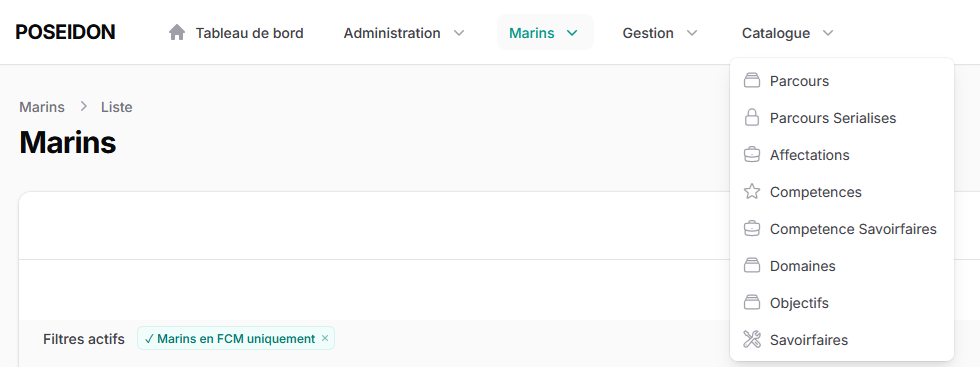
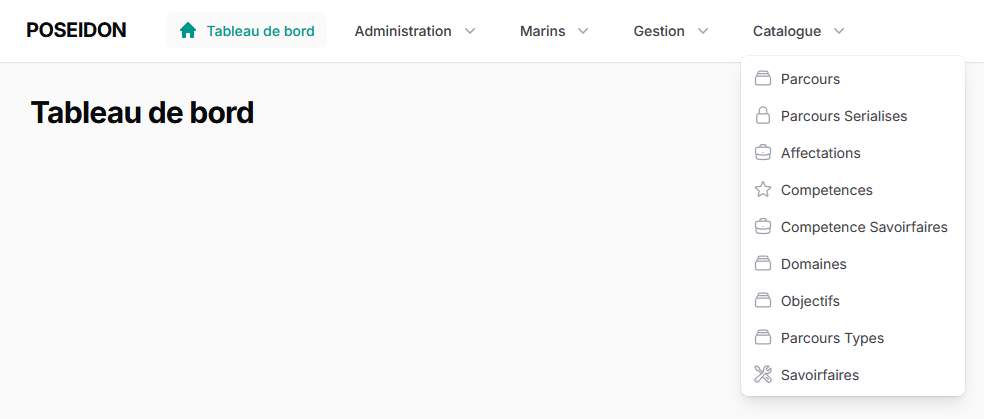
Documentation générale du module Fcm Central

diff --git a/resources/docs/generalites.md b/resources/docs/generalites.md
@@ -2,6 +2,8 @@
 
 Le module Fcm Central est un module métier de l'écosystème [POSEIDON](../../index.md). Il présente donc la plupart de ses fonctionnalités sous la forme de pages Web auxquelles l'utilisateur se connecte en utilisant son navigateur Web.
 
+Comme son nom l'indique, le module FCM Central est destiné à outiller les processus définis dans la [Formation Continue Modulaire](https://portail-ct-mvl.intradef.gouv.fr/sites/FPS_Brest/FCM/Documents%20partages/DOCUMENTATION%20G%C3%89N%C3%89RALE/TEXTES/20230721_NP_DPMM_FORM_17638_Relative-mise-en-oeuvre-formation-continue-modulaire.pdf)
+
 Le module FCM Central permet aux utilisateurs :
 
 - de décrire les Parcours Professionnels en Alternance (PPA) de la Formation Continue Modularisée (FCM)
@@ -20,14 +22,287 @@ Pour rappel, voici un schéma illustrant comment sont construits les PPA:
 
 ``` mermaid
 graph TD
-  A[Parcours] --> B{Affectation 1};
-  A[Parcours] --> C{Affectation 2};
-  B --> D{Compétence 1};
-  B --> E{Compétence 2};
-  C --> F{Compétence 3};
-  C --> G{Compétence 4};
-  D --> H{Savoir-faire 1};
-  H --> I{Objectif 1};
-  H --> J{Objectif 2};
-  D --> K{Savoir-faire 2};
+  A[Parcours] --> B[Affectation 1];
+  A[Parcours] --> C@{ shape: procs, label: "Affectation ..."};
+  B --> D[Compétence 1];
+  B --> E@{ shape: procs, label: "Compétence ..."};
+  C --> F[Compétence 3];
+  C --> G[Compétence 4];
+  D --> H[Savoir-faire 1];
+  H --> I[Objectif 1];
+  H --> J[Objectif 2];
+  H --> L@{ shape: procs, label: "Objectif ..."};
+  D --> K@{ shape: procs, label: "Savoir-faire ..."};
+  
 ```
+
+Les savoir-faire peuvent être de 3 types différents:
+
+- des objectifs acquis par compagnonage
+- des stages
+- des modules d'enseignement à distance
+
+Les objectifs sont les composants élémentaires du PPA.
+
+## Création d'un nouveau Parcours
+
+Pour créer un nouveau parcours, l'utilisateur doit accomplir les tâches suivantes:
+
+### Créer un nouveau type de parcours si nécessaire
+
+Le module FCM Central permet de définir des "Types de parcours", comme par exemple DEASM, ou ELECT. Ensuite, chaque parcours doit être associé avec un de ces types.
+Cette implémentation permet, si on le souhaite, d'avoir plusieurs parcours d'un même type, par exemples plusieurs parcours de type DEASM.
+
+Si le nouveau parcours ne correspond pas à un type de parcours existant déjà, créer le nouveau type de parcours:
+
+!!! note
+
+    L'accès aux pages listant les types de parcours et à la page de création d'un nouveau type de parcours n'est possible que pour les utilisateurs "Super-Administrateur" (voir la documentation de Skeletor relative aux [Comptes utilisateurs](../../Skeletor/administration/#comptes-utilisateur)). Si cette fonctionnalité (la possibilité d'avoir plusieurs parcours d'un même type) est confirmée, des permissions pouvant être attribuées aux utilisateurs seront définies pour régler les accès à ces pages.
+    Si vous n'êtes pas "Super-Administrateur", vous ne verrez pas les menus et les pages indiquées ci-dessous.
+
+Pour cela, depuis le menu Catalogue, utiliser le lien vers "Parcours Types".
+
+![Menu Catalogue](img/generalites/menu_description_parcours.png)
+
+![Liste des types de parcours](img/generalites/Liste%20parcours%20types.png)
+Cliquer ensuite sur le bouton"Créer".
+
+Et renseigner le formulaire permettant de définir le nouveau type de parcours:
+![Formulaire de creation type parcours](img/generalites/creation_type_parcours.png)
+
+### Créer le nouveau parcours
+
+Une fois le type de parcours créé (ou si le nouveau parcours est d'un type existant déjà), il est possible de créer le nouveau parcours en utilisant le lien "Parcour" du menu "Catalogue":
+
+![Menu Catalogue](img/generalites/menu_description_parcours.png)
+
+!!! note
+
+    L'accès la la liste des parcours nécessite la permision fcmcentral::parcours.index. Si vous n'avez pas cette permission, le lien "Parcours" n'apparaitra pas dans le menu Catalogue.
+    D'ailleurs, si vous n'avez accès à aucune des pages listées dans le menu Catalogue, ce dernier ne s'affichera même pas.
+
+Ce lien amène à la liste des parcours déjà définis:
+
+![Liste des parcours](img/generalites/liste_des_parcours.png)
+
+Cliquer ensuite sur le bouton "Créer" pour commencer la création du nouveau parcours:
+
+!!! note
+
+    L'accès à la fonctionnalité de création d'un parcours nécessite la permission fcmcentral::parcours.store
+
+Renseigner le formulaire relatif au parcours:
+
+![creation_parcours_1](img/generalites/creation_nouveau_parcours_1.png)
+
+Cliquer sur "Suivant" et renseigner les informations relatives aux affectations pour lesquelles il faudra ensuite définir les compétences, savoir-faire et objectifs:
+
+![creation_parcours_2](img/generalites/creation_nouveau_parcours_2.png)
+
+!!! note
+
+    A cette étape, vous pouvez définir autant d'affectations que vous le souhaitez. Pour chaque affectation, vous pourrez ensuite définir des compétences à aquérir, des savoir-faire et des objectifs.
+
+Une fois ces 2 étapes terminées (et après avoir cliqué sur "Créer"), le nouveau parcours existe dans la base de données. 
+
+### Renseigner le contenu du nouveau parcours
+
+Pour renseigner le contenu de ce parcours, naviguer à nouveau jusqu'à la liste des parcours depuis le menu Catalogue, et cliquer sur la ligne du nouveau parcours. Cela donne accès à la page d'édition du parcours.
+
+!!! note
+
+    Pour pouvoir éditer le contenu d'un parcours, l'utilisateur doit avoir la permission fcmcentral::parcours.update
+
+
+![edition_parcours](img/generalites/edition_parcours.png)
+
+Depuis cette page, les onglets de la partie inférieure de la page permettent de définir:
+
+- les affectations (pour corriger ce qui a été déclaré dans l'étape précédente si nécessaire)
+- les compétences (en les associant avec l'affectation au cours de laquelle le PPA prévoit qu'elles soient acquises)
+- les savoir-faire et leurs objectifs associés
+
+!!! note
+
+    Les onglets de la partie inférieures ne s'affichent que si l'utilisateur dispose des permissions suivantes:
+
+    - fcmcentral::affectation.index: permet d'afficher l'onglet Affectations, d'attacher et de détacher des affectations du parcours en cours d'édition.
+    - fcmcentral::affectation.store: permet à l'utilisateur de créér une nouvelle affectation (et comme il doit déjà avoir la permission ci-dessus, il peut l'associer au parcours en cours d'édition)
+    - fcmcentral::competences.index: permet d'afficher l'onglet Compétences, d'attacher et de détacher les compétences existant déjà, et de créer de nouvelles compétences à associer au parcours en cours d'édition.
+    - fcmcentral::competenceSavoirfaire.index: permet d'afficher l'onglet "Savoir-faire et objectifs", de modifier les données des savoir-faire et de leurs objectifs, y compris de créér de nouveaux objectifs ou d'en supprimer au sein de chaque savoir-faire.
+    - fcmcentral::competenceSavoirfaire.store: permet de créer un nouveau Savoir-faire et de le rattacher à une compétence. L'onglet n'étant visible que si l'utilisateur dispose déjà de la permission ci-dessus, il peut ensuite ajuster le contenu de ce nouveau savoir-faire à sa guise.
+    
+Pour ce qui concerne les compétences, les savoir-faire et les objectifs, l'application propose à l'utilisateur:
+
+- soit de reprendre un élément déjà défini dans l'application (par exemple si certaines compétences sont communes à 2 parcours distincts)
+- soit de définir de nouveaux éléments
+
+### Vérifier la définition du nouveau parcours depuis la vue détaillée
+
+Depuis la liste des parcours ou depuis la page d'édition du parcours, il est possible d'atteindre la vue détaillée de celui-ci, qui permet d'afficher sur une seule page toute la définition d'un parcours donné.
+
+![Parcours détaillé](img/generalites/parcours_detaillé.png)
+
+Les différents composants du parcours peuvent être développés grâce aux croix rouges situées à gauche.
+
+### Figer une version d'un parcours
+
+Dans le module de FCM Central, il y a une séparation stricte entre les outils permettant de décrire les parcours (objet des paragraphes précédents), et les outils permettant d'attribuer un parcours à un marin, puis de suivre sa progression.
+
+En particulier, pour qu'une version du parcours entre effectivement en service, il faut en figer une version.
+
+De la même façon que pour la vue détaillée, il est possible de figer la définition du parcours depuis la liste des parcours, ou depuis la page d'édition du parcours concerné.
+
+!!! note
+
+    L'utilisateur doit avoir la permission fcmcentral::parcours.figer pour pouvoir figer une nouvelle version d'un parcours
+
+Après avoir cliqué sur le bouton "Figer", une boite de dialogue apparait pour que l'utilisateur puisse confirmer la date à partir de laquelle la nouvelle version entre en vigueur. Par défaut, cette date est fixée au lendemain.
+
+![Modal figement](img/generalites/modal_figer_parcours.png)
+
+!!! note
+
+    Dans l'écosystème général de POSEIDON, les unités disposeront de leur propre serveur POSEIDON, sur lequel sera déployé le module de suivi de la FCM. Ces modules devront disposer des définitions des différents parcours à jour. Par conséquent, la date d'entrée en vigueur des parcours figés ne peut pas être fixée rétroactivement dans le passé. Il est possible que la première date possible d'entrée en vigueur soit ultérieusement forcée quelques jours dans le futur (et pas dès le lendemain), afin de garantir que tous les serveurs POSEIDON aient eu le temps d'obtenir les dernières définitions avant l'entrée en vigueur de ces dernières.
+
+## Gérer un marin dans le parcours de FCM
+
+Afin de pouvoir suivre l'évolution d'un marin dans son cycle de FCM, il faut renseigner les informations relatives au parcours attribué à ce marin.
+
+### Déclarer la cohorte BAT
+
+La page de gestion des cohortes est accessible depuis le menu "Gestion".
+
+!!! note
+
+    Pour avoir accès à la page de gestion des cohortes en consultation, l'utilisateur doit avoir la permission fcmcentrall::cohorte.index
+
+![Liste des cohortes BAT](img/generalites/liste_cohortes.png)
+
+La page présente la liste des cohortes renseignées dans le module, et le nombre de marins associés à cette cohorte.
+
+Le bouton "Créer" situé en haut à droite permet de déclarer une nouvelle cohorte.
+
+!!! note
+
+    La fonctionnalité de création d'une cohorte (et donc la visibilité du bouton associé) n'est accessible que si l'utilisateur a la permission fcmcentral::cohorte.store
+
+![Page de creation cohorte](img/generalites/creation_cohorte.png)
+
+### Gérer les marins en FCM
+
+Le module FCM Central expose la page de gestion des marins depuis laquelle les utilisateurs peuvent accéder aux principales fonctionnalités du suivi quotidien des marins en FCM.
+
+![Liste des marins](img/generalites/liste_des_marins.png)
+
+!!! note 
+
+    L'utilisateur doit avoir la permission fcmcentral::marins.index pour pouvoir accéder à cette page. La liste des marins à laquelle il a accès dépend des règles de filtrage appliquées par le module RH. Se reporter à la documentation de ce module pour plus de détail.
+
+    Les différentes fonctionnalités accessibles pour chaque marin dépendent de la situation de ce marin au regard de la FCM et des permissions accordées à l'utilisateur.
+
+#### Placer le marin en FCM
+
+Lorsque l'utilisateur accède à la page de gestion des marins, il peut indiquer au module FCM Central qu'un des marins disponibles dans la liste est dans le parcours de FCM.
+
+Pour cela, il peut tout d'abord désactiver le filtre par défaut qui n'affiche que les marins déjà inscrits dans le parcours de FCM (en cliquant sur la croix dans la ligne des filtres actifs, pour le filtre "Marins en FCM uniquement", soit en cliquant sur le bouton des filtres (entonnoir à droite), et en désactivant le même filtre)
+
+Une fois les marins affichés, l'utilisateur peut utiliser la barre de recherche située à droite pour rechercher le marin dont il souhaite s'occuper, si la liste est longue.
+
+Il peut ensuite cliquer sur la croix rouge située dans la colonne FCM.
+
+La boite de dialogue suivante apparaitra alors:
+
+![modal suivre en FCM](img/generalites/modal_suivre_en_FCM.png)
+
+!!! note
+
+    Dans cette boite de dialogue, les différents champs ne s'affiche que si l'utilisateur dispose des permissions correspondantes:
+
+    - Choisir la cohorte: fcmcentral::attribuer.cohorte
+    - Choisir le mentor: fcmcentral::attribuer.mentor
+    - Choisir le parcours: fcmcentral::attribuer.parcours
+
+    Si l'utilisateur n'a aucune de ces permissions, la boite de dialogue ne s'ouvre pas.
+
+!!! note
+
+    Dans cette boite de dialogue, ne s'affichent que les parcours qui disposent d'une version figée. Voir le chapitre "Figer une version d'un parcours" ci-dessus.
+
+#### Période de sédimentation - Définition des jalons de FCM
+
+Par défaut, lorsque le marin est placé en FCM, il est d'abord réputé entrer en période de sédimentation. Dans la page de gestion des marins, la mention "SED" apparait dans la colonne Jalon.
+
+Avant de pouvoir saisir des données de progression dans son livret de FCM, il faut indiquer au logiciel que la période de sédimentation est terminée.
+
+Pour cela, cliquer sur la mention "SED". La boite de dialogue de définition des jalons de FCM apparait:
+
+![Modal jalons de FCM](img/generalites/modal_jalons_fcm.png)
+
+Cette boite de dialogue permet notamment de saisir une date de fin de sédimentation. Une fois la date saisie, le dossier de FCM du marin devient "actif" et l'utilisateur peut saisir des données de progression.
+
+!!! note
+
+    La boite de dialogue de définition des jalons de FCM n'est accessible que si l'utilisateur dispose de la permission fcmcentral::definir_jalons_de_fcm
+
+Cette même boite de dialogue permet également, à la fin du parcours de FCM de signaler la fin de ce parcours pour le marin considéré, en saisissant la date du "Vert compétence", qui atteste que le marin a atteint ses objectifs de FCM.
+
+Par ailleurs, lorsque le marin doit interrompre son parcours de FCM, il est possible de mettre celui-ci en gel. 
+Lorsque le dossier d'un marin est mis en gel, il n'est plus possible de valider des éléments du parcours de FCM.
+La définition des périodes de gel permet de mieux rendre compte de l'évolution des marins dans leur parcours de FCM.
+
+#### Saisir la progression du marin - Le livret de FCM
+
+Depuis la page de gestion des marins, il est possible d'accéder au livret de FCM individuel des marins engagés dans un parcours de FCM.
+
+L'accès au livret de FCM n'est possible que si l'utilisateur dispose de la permission fcmcentral::livret.voir
+
+!!! note
+
+    L'accès est également possible sans autorisation particulière à tous les utilisateurs qui sont par ailleurs désignés comme mentor d'un marin dans le module de FCM. Cette permission est alors implicite et ne nécessite pas d'action d'administration sur le serveur.
+
+![livret de FCM](img/generalites/livret_de_fcm.png)
+
+En outre, les différentes fonctionnalités du livret de FCM sont accessibles en fonction des permissions de l'utilisateur:
+
+- valider un élément du parcours de FCM: possible si l'utilisateur a la permission fcmcentral::livret.valider
+- annuler un élément du parcours de FCM: possible si l'utilisateur a la permission fcmcentral::livret.annuler
+- refuser un élément du parcours de FCM proposé par le marin: possible avec la permission fcmcentral::livret.refuser
+- proposer un élément du parcours à la validation: possible avec la permission fcmcentral::livret.proposer
+
+!!! note
+
+    Le mentor désigné d'un marin en FCM n'a besoin d'aucune permission particulière pour pouvoir valider, annuler ou refuser les propositions de validation. Ces permissions sont implicites, dès lors que l'utilisateur a été désigné comme mentor.
+
+#### Imprimer le livret de FCM d'un marin
+
+Depuis la page de gestion des marins, une petite icone noire permet à l'utilisateur d'exporter le livret de FCM sous forme de fichier PDF.
+
+Cette fonctionnalité est accessible si l'utilisateur dispose de la permission fcmcentral::livret.telecharger.
+
+#### Fiche Bilan
+
+Depuis la page de gestion des marins, une petite icone orange permet à l'utilisateur d'accéder à la fiche Bilan d'un marin.
+
+Cette fonctionnalité est accessible si l'utilisateur dispose de la permission fcmcentral::ficheBilan.voir.
+
+![fiche bilan](img/generalites/fiche_bilan.png)
+
+La fiche bilan présente en tout premier lieu des indicateurs généraux sur l'avancement du processus de FCM du marin considéré.
+
+Puis dans une seconde partie, la fiche bilan fait la liste des éléments du parcours de FCM du marin.
+
+Dans la partie droite, la fiche bilan présente les commentaires associés au dossier de FCM du marin.
+Ces commentaires ne sont visibles que si l'utilisateur a la permission fcmcentral::note.voir
+
+#### Commentaires
+
+Depuis la page de gestion des marins, il est possible de rajouter un commentaire au dossier de FCM du marin. Cette fonctionnalité est accessible via une petite icone rouge située sur la ligne du marin considéré.
+
+![modal creation note](img/generalites/model_creation_note.png)
+
+!!! note
+
+    Cette fonctionnalité n'est accessible que si l'utilisateur dispose de la permission fcmcentral::note.creer
+
+Ces notes sont consultables depuis la fiche bilan du marin (voir ci-dessus).
